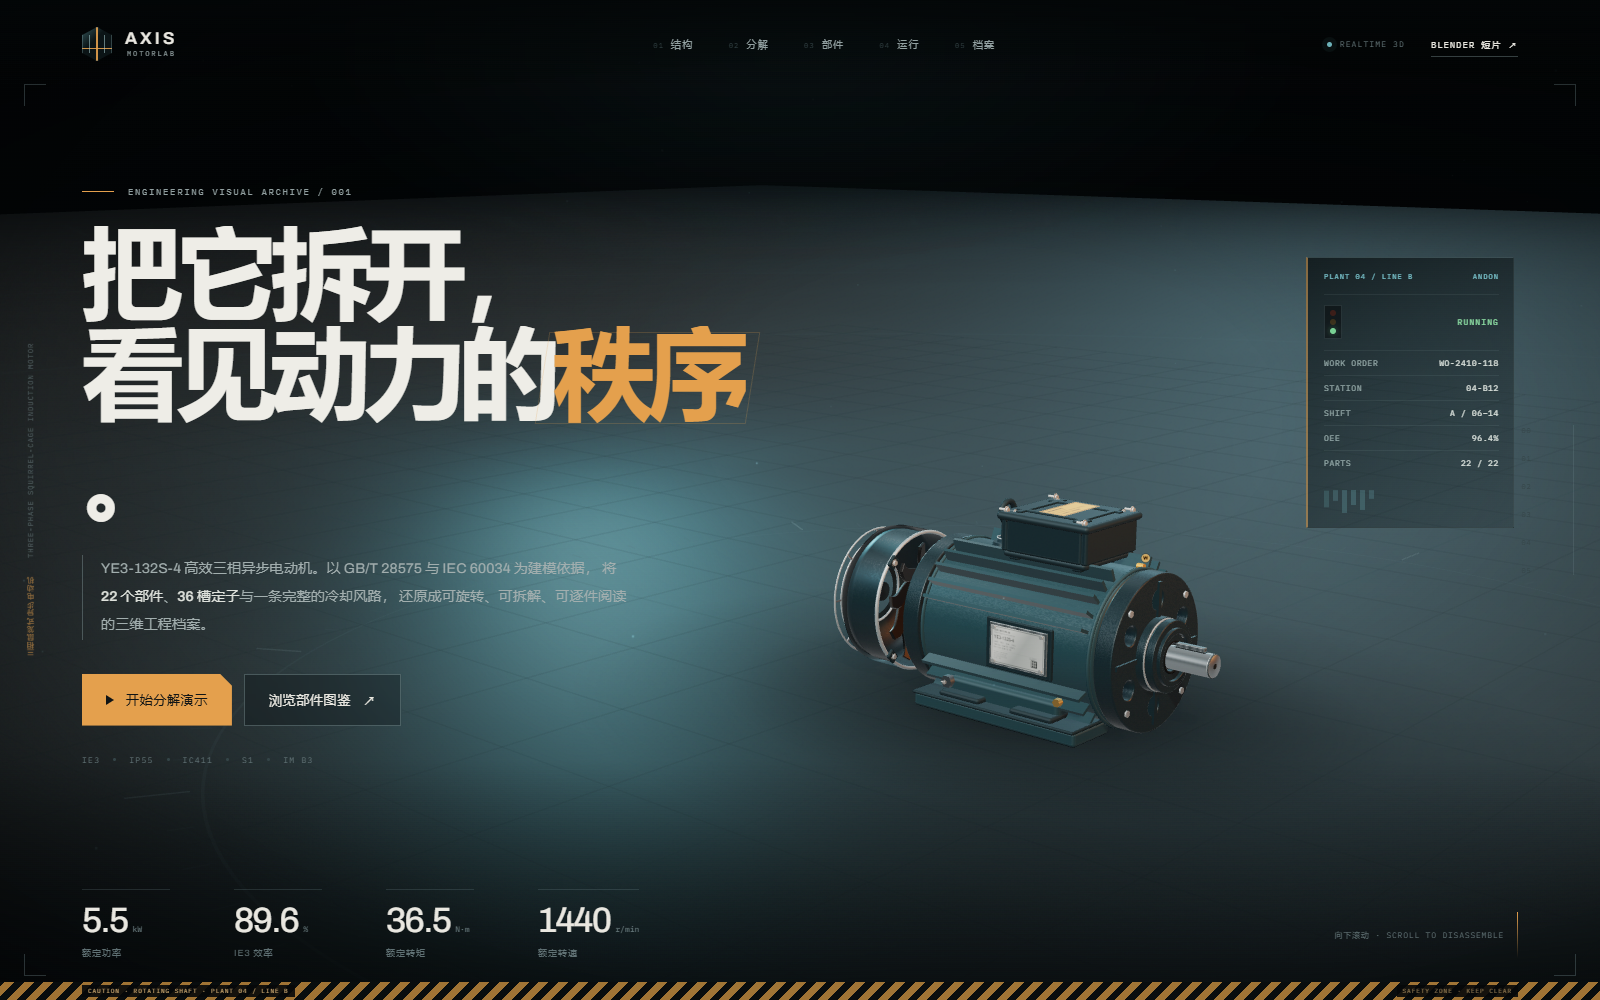
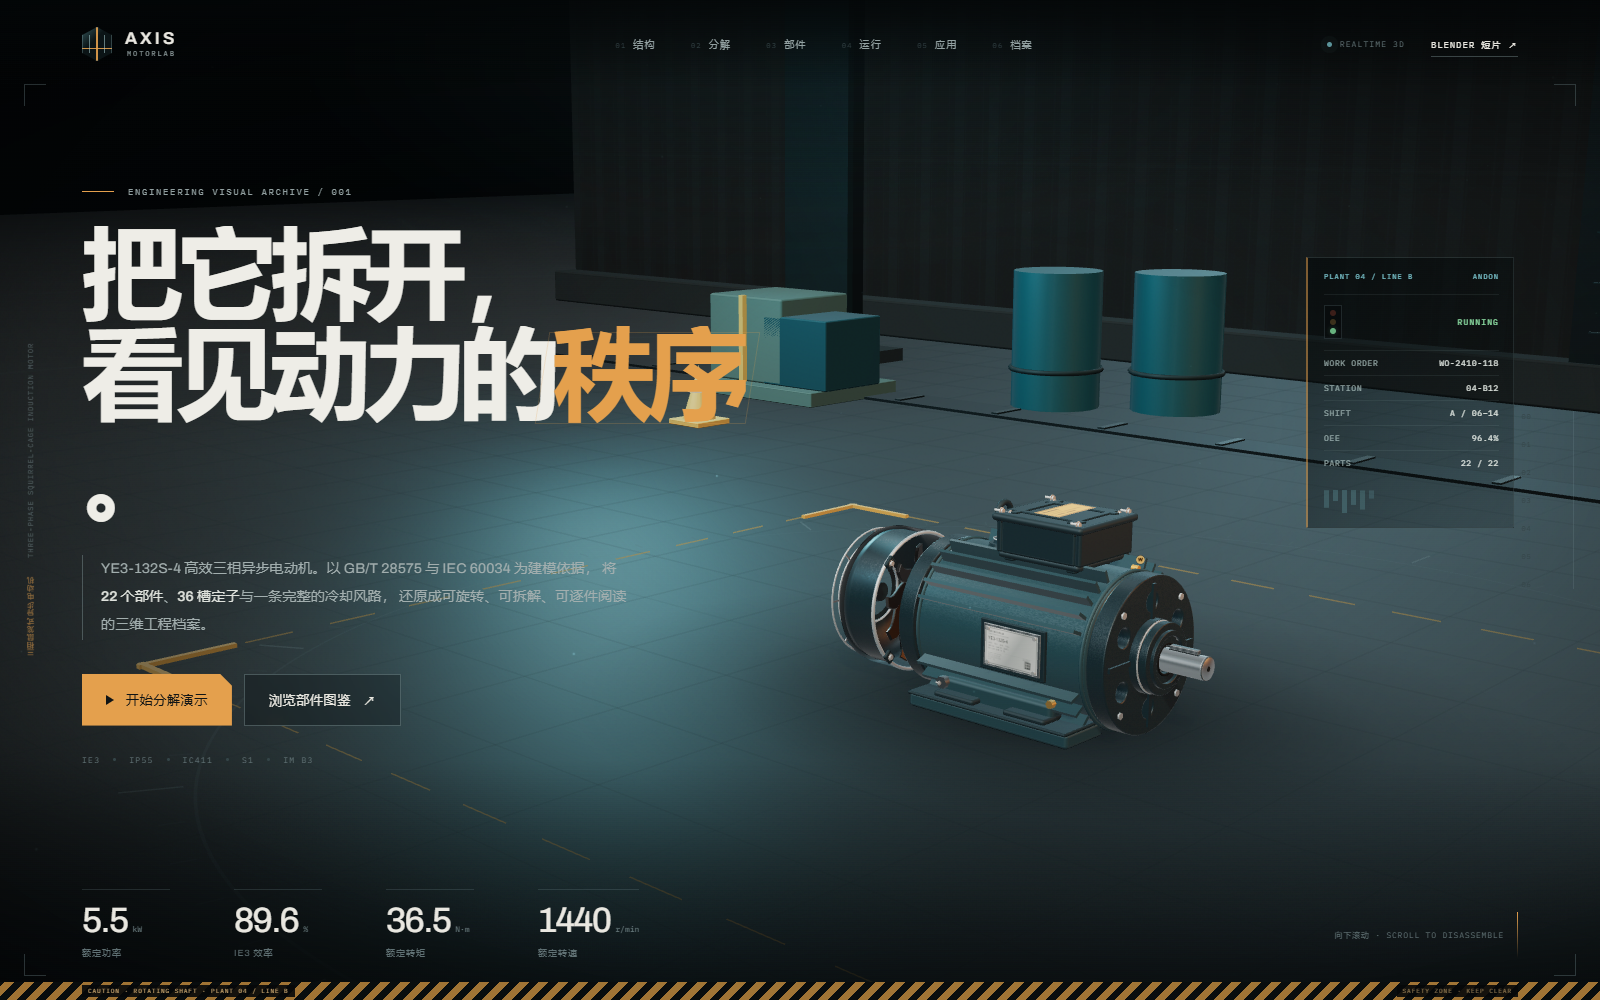
Add industrial factory hall environment to 3D stage

diff --git a/src/scene/factory.js b/src/scene/factory.js
@@ -1,0 +1,311 @@
+import * as THREE from 'three';
+import { makeCanvasTexture, PI2, roundedBox, shadowed } from '../model/utils.js';
+
+const steel = new THREE.MeshStandardMaterial({ color: 0x2a393c, metalness: 0.78, roughness: 0.42 });
+const darkSteel = new THREE.MeshStandardMaterial({ color: 0x0b1518, metalness: 0.52, roughness: 0.58 });
+const paint = new THREE.MeshStandardMaterial({ color: 0x183b42, metalness: 0.35, roughness: 0.55 });
+const safety = new THREE.MeshStandardMaterial({ color: 0xb9893f, metalness: 0.22, roughness: 0.55 });
+const concrete = new THREE.MeshStandardMaterial({ color: 0x10191b, metalness: 0.1, roughness: 0.88 });
+const crateMat = new THREE.MeshStandardMaterial({ color: 0x384a45, metalness: 0.12, roughness: 0.82 });
+const barrelMat = new THREE.MeshStandardMaterial({ color: 0x1d4c54, metalness: 0.4, roughness: 0.48 });
+const rubber = new THREE.MeshStandardMaterial({ color: 0x0a0e0f, metalness: 0.02, roughness: 0.9 });
+
+function add(parent, geometry, material, x = 0, y = 0, z = 0, rx = 0, ry = 0, rz = 0, cast = false) {
+  const mesh = new THREE.Mesh(geometry, material);
+  mesh.position.set(x, y, z);
+  mesh.rotation.set(rx, ry, rz);
+  mesh.castShadow = cast;
+  mesh.receiveShadow = false;
+  parent.add(mesh);
+  return mesh;
+}
+
+function wallTexture() {
+  const tex = makeCanvasTexture(512, 512, (ctx, w, h) => {
+    ctx.fillStyle = '#0b1417';
+    ctx.fillRect(0, 0, w, h);
+    for (let x = 0; x < w; x += 16) {
+      ctx.fillStyle = x % 32 === 0 ? 'rgba(80,108,111,0.16)' : 'rgba(8,15,17,0.5)';
+      ctx.fillRect(x, 0, 9, h);
+      ctx.fillStyle = 'rgba(155,186,183,0.055)';
+      ctx.fillRect(x + 10, 0, 1, h);
+    }
+    let seed = 807;
+    const rnd = () => {
+      seed = (seed * 16807) % 2147483647;
+      return (seed - 1) / 2147483646;
+    };
+    for (let i = 0; i < 180; i++) {
+      const x = rnd() * w;
+      const y = rnd() * h;
+      const r = 1 + rnd() * 20;
+      ctx.fillStyle = `rgba(${80 + rnd() * 30},${90 + rnd() * 35},${88 + rnd() * 30},${0.008 + rnd() * 0.025})`;
+      ctx.beginPath();
+      ctx.arc(x, y, r, 0, PI2);
+      ctx.fill();
+    }
+    ctx.strokeStyle = 'rgba(100,130,132,0.14)';
+    for (let y = 52; y < h; y += 112) {
+      ctx.beginPath();
+      ctx.moveTo(0, y);
+      ctx.lineTo(w, y);
+      ctx.stroke();
+    }
+  });
+  tex.wrapS = tex.wrapT = THREE.RepeatWrapping;
+  tex.repeat.set(4, 1);
+  return tex;
+}
+
+function letteringTexture(text, sub) {
+  return makeCanvasTexture(1024, 256, (ctx, w, h) => {
+    ctx.clearRect(0, 0, w, h);
+    ctx.fillStyle = 'rgba(5,9,10,0.9)';
+    ctx.fillRect(0, 0, w, h);
+    ctx.strokeStyle = 'rgba(203,145,64,0.82)';
+    ctx.lineWidth = 7;
+    ctx.strokeRect(10, 10, w - 20, h - 20);
+    ctx.fillStyle = '#d7a65e';
+    ctx.font = 'bold 76px Arial';
+    ctx.fillText(text, 36, 112);
+    ctx.fillStyle = 'rgba(185,204,198,0.7)';
+    ctx.font = '28px Arial';
+    ctx.fillText(sub, 38, 176);
+    ctx.fillStyle = 'rgba(203,145,64,0.5)';
+    ctx.fillRect(38, 200, 280, 6);
+  });
+}
+
+function floorText(text, sub) {
+  return makeCanvasTexture(1024, 256, (ctx, w, h) => {
+    ctx.clearRect(0, 0, w, h);
+    ctx.fillStyle = 'rgba(203,145,64,0.82)';
+    ctx.font = 'bold 70px Arial';
+    ctx.fillText(text, 20, 108);
+    ctx.fillStyle = 'rgba(203,145,64,0.46)';
+    ctx.font = '28px Arial';
+    ctx.fillText(sub, 24, 168);
+    ctx.fillRect(24, 198, 720, 6);
+  });
+}
+
+function wallSign(text, sub) {
+  return new THREE.Mesh(
+    new THREE.PlaneGeometry(2.1, 0.52),
+    new THREE.MeshBasicMaterial({
+      map: letteringTexture(text, sub),
+      transparent: true,
+      toneMapped: false,
+      depthWrite: false,
+    }),
+  );
+}
+
+function cone(x, z, y = 0) {
+  const g = new THREE.Group();
+  const base = add(g, roundedBox(0.14, 0.018, 0.14, 0.004, 2), safety, 0, 0.009, 0);
+  base.castShadow = false;
+  add(g, new THREE.ConeGeometry(0.056, 0.18, 20), safety, 0, 0.1, 0, 0, 0, 0, false);
+  add(g, new THREE.ConeGeometry(0.036, 0.05, 20), new THREE.MeshBasicMaterial({ color: 0xc9bda1 }), 0, 0.13, 0, 0, 0, 0, false);
+  g.position.set(x, y, z);
+  return g;
+}
+
+function pallet(x, z) {
+  const g = new THREE.Group();
+  add(g, roundedBox(0.58, 0.05, 0.44, 0.004, 2), crateMat, 0, 0.025, 0);
+  for (const dx of [-0.2, 0, 0.2]) for (const dz of [-0.15, 0.15]) {
+    add(g, new THREE.BoxGeometry(0.08, 0.045, 0.08), darkSteel, dx, 0.006, dz);
+  }
+  add(g, roundedBox(0.36, 0.3, 0.34, 0.008, 2), crateMat, -0.08, 0.2, 0);
+  add(g, roundedBox(0.3, 0.24, 0.28, 0.006, 2), paint, 0.16, 0.17, 0.03);
+  add(g, new THREE.BoxGeometry(0.02, 0.31, 0.02), safety, -0.08, 0.2, 0.18);
+  g.position.set(x, 0, z);
+  return g;
+}
+
+function cabinet(x, z) {
+  const g = new THREE.Group();
+  add(g, roundedBox(0.55, 1.2, 0.38, 0.008, 2), darkSteel, 0, 0.6, 0);
+  add(g, roundedBox(0.48, 0.96, 0.008, 0.004, 2), paint, 0, 0.66, 0.195);
+  add(g, new THREE.BoxGeometry(0.015, 0.23, 0.012), steel, 0.18, 0.67, 0.203);
+  for (let i = 0; i < 3; i++) {
+    add(g, new THREE.BoxGeometry(0.055, 0.012, 0.008), i === 0 ? new THREE.MeshBasicMaterial({ color: 0x7fe3a0 }) : safety, -0.14 + i * 0.12, 1.08, 0.2, 0, 0, 0, false);
+  }
+  add(g, new THREE.BoxGeometry(0.04, 0.7, 0.04), steel, -0.35, 0.4, 0.15);
+  g.position.set(x, 0, z);
+  return g;
+}
+
+function forklift(x, z, rotation = 0) {
+  const g = new THREE.Group();
+  add(g, roundedBox(0.55, 0.33, 0.36, 0.025, 2), safety, 0, 0.26, 0);
+  add(g, roundedBox(0.25, 0.24, 0.32, 0.02, 2), paint, -0.17, 0.39, 0);
+  add(g, new THREE.BoxGeometry(0.045, 1.0, 0.055), steel, 0.28, 0.52, 0);
+  add(g, new THREE.BoxGeometry(0.04, 0.04, 0.38), steel, 0.32, 0.73, 0);
+  add(g, new THREE.BoxGeometry(0.04, 0.04, 0.38), steel, 0.32, 0.1, 0);
+  for (const dz of [-0.13, 0.13]) {
+    add(g, new THREE.CylinderGeometry(0.07, 0.07, 0.045, 16), rubber, -0.17, 0.08, dz, Math.PI / 2, 0, 0);
+    add(g, new THREE.CylinderGeometry(0.07, 0.07, 0.045, 16), rubber, 0.2, 0.08, dz, Math.PI / 2, 0, 0);
+  }
+  add(g, new THREE.BoxGeometry(0.34, 0.04, 0.055), darkSteel, 0.5, 0.18, 0);
+  g.position.set(x, 0, z);
+  g.rotation.y = rotation;
+  return g;
+}
+
+function pipeRun(parent, y, z, length, colorMat) {
+  add(parent, new THREE.CylinderGeometry(0.042, 0.042, length, 18), colorMat, 0, y, z, 0, 0, Math.PI / 2);
+  for (let x = -length / 2 + 0.6; x < length / 2; x += 1.2) {
+    add(parent, new THREE.CylinderGeometry(0.055, 0.055, 0.025, 18), steel, x, y, z, 0, 0, Math.PI / 2);
+  }
+}
+
+export function createFactoryEnvironment() {
+  const root = new THREE.Group();
+  root.name = 'factory-environment';
+
+  // Back wall and a low concrete plinth.
+  const wall = add(root, new THREE.PlaneGeometry(12, 3.2), new THREE.MeshStandardMaterial({
+    map: wallTexture(),
+    color: 0x7d8e8f,
+    roughness: 0.82,
+    metalness: 0.25,
+  }), 0, 1.6, -3.9);
+  wall.receiveShadow = false;
+  add(root, roundedBox(12, 0.16, 0.14, 0.01, 2), concrete, 0, 0.08, -3.82);
+
+  // Roll-up door and signage.
+  add(root, new THREE.BoxGeometry(1.42, 2.15, 0.035), darkSteel, 0.1, 1.08, -3.79);
+  for (let i = 0; i < 12; i++) {
+    add(root, new THREE.BoxGeometry(1.3, 0.005, 0.008), steel, 0.1, 0.1 + i * 0.165, -3.765);
+  }
+  add(root, new THREE.BoxGeometry(1.5, 0.045, 0.06), safety, 0.1, 2.18, -3.78);
+
+  // Windows, wall pipes and cable tray.
+  for (let i = 0; i < 3; i++) {
+    add(root, new THREE.PlaneGeometry(0.9, 0.48), new THREE.MeshBasicMaterial({
+      color: 0x1d4652,
+      transparent: true,
+      opacity: 0.3,
+      toneMapped: false,
+    }), -1.5 + i * 1.5, 2.35, -3.885);
+  }
+  pipeRun(root, 2.0, -3.75, 8.4, new THREE.MeshStandardMaterial({ color: 0x6e4b32, metalness: 0.5, roughness: 0.4 }));
+  pipeRun(root, 2.15, -3.7, 8.4, steel);
+  add(root, new THREE.BoxGeometry(8, 0.1, 0.26), darkSteel, 0, 2.62, -3.74);
+  for (let x = -3.6; x <= 3.6; x += 1.2) {
+    add(root, new THREE.BoxGeometry(0.04, 0.14, 0.3), steel, x, 2.54, -3.74);
+  }
+
+  // Structural columns and roof beam.
+  for (const x of [-3.25, 3.25]) {
+    add(root, new THREE.BoxGeometry(0.16, 3.0, 0.16), darkSteel, x, 1.5, -3.0);
+    add(root, new THREE.BoxGeometry(0.42, 0.05, 0.36), concrete, x, 0.025, -3.0);
+    for (const side of [-1, 1]) {
+      add(root, new THREE.BoxGeometry(0.07, 2.9, 0.03), steel, x + side * 0.12, 1.5, -2.92);
+    }
+    add(root, new THREE.BoxGeometry(0.34, 2.6, 0.025), steel, x, 1.5, -2.9);
+    add(root, new THREE.SphereGeometry(0.025, 12, 8), new THREE.MeshBasicMaterial({ color: 0xe0a04a }), x, 2.22, -2.83);
+  }
+  add(root, new THREE.BoxGeometry(6.9, 0.18, 0.22), darkSteel, 0, 2.86, -3.0);
+  add(root, new THREE.BoxGeometry(5.8, 0.1, 0.14), steel, 0, 2.74, -3.0);
+
+  // Overhead crane rail + trolley + hook.
+  add(root, new THREE.BoxGeometry(6.4, 0.16, 0.2), safety, 0, 2.54, -2.1);
+  const trolley = new THREE.Group();
+  add(trolley, new THREE.BoxGeometry(0.3, 0.16, 0.22), darkSteel, 0, 0, 0);
+  add(trolley, new THREE.CylinderGeometry(0.005, 0.005, 1.05, 8), steel, 0, -0.54, 0);
+  add(trolley, new THREE.TorusGeometry(0.06, 0.009, 6, 20), safety, 0, -1.08, 0);
+  trolley.position.set(0.55, 2.54, -2.1);
+  root.add(trolley);
+
+  // Ceiling light bars.
+  for (const x of [-1.6, 0, 1.6]) {
+    add(root, new THREE.BoxGeometry(0.65, 0.035, 0.12), new THREE.MeshBasicMaterial({ color: 0xf1e6cb, toneMapped: false }), x, 2.72, -1.35);
+    add(root, new THREE.CylinderGeometry(0.006, 0.006, 0.32, 6), steel, x - 0.22, 2.87, -1.35);
+    add(root, new THREE.CylinderGeometry(0.006, 0.006, 0.32, 6), steel, x + 0.22, 2.87, -1.35);
+  }
+
+  // Floor safety zone: rectangular dashed perimeter, corner brackets and bay stencil.
+  const lineMat = new THREE.LineDashedMaterial({
+    color: 0xc39149,
+    transparent: true,
+    opacity: 0.55,
+    dashSize: 0.1,
+    gapSize: 0.08,
+    depthWrite: false,
+  });
+  const zx = 1.28;
+  const zz = 0.94;
+  const corners = [
+    [-zx, -zz], [zx, -zz], [zx, zz], [-zx, zz], [-zx, -zz],
+  ];
+  const points = [];
+  for (let i = 0; i < corners.length - 1; i++) {
+    points.push(new THREE.Vector3(corners[i][0], 0.006, corners[i][1]));
+    points.push(new THREE.Vector3(corners[i + 1][0], 0.006, corners[i + 1][1]));
+  }
+  const lineGeo = new THREE.BufferGeometry().setFromPoints(points);
+  const line = new THREE.LineSegments(lineGeo, lineMat);
+  line.computeLineDistances();
+  root.add(line);
+  for (const [x, z] of corners.slice(0, 4)) {
+    const sx = x < 0 ? 1 : -1;
+    const sz = z < 0 ? 1 : -1;
+    add(root, new THREE.BoxGeometry(0.19, 0.008, 0.012), safety, x + sx * 0.085, 0.006, z);
+    add(root, new THREE.BoxGeometry(0.012, 0.008, 0.19), safety, x, 0.006, z + sz * 0.085);
+  }
+  const floorSign = new THREE.Mesh(
+    new THREE.PlaneGeometry(0.56, 0.14),
+    new THREE.MeshBasicMaterial({ map: floorText('BAY 12', 'ASSEMBLY / SAFETY ZONE'), transparent: true, depthWrite: false, toneMapped: false }),
+  );
+  floorSign.rotation.x = -Math.PI / 2;
+  floorSign.rotation.z = -0.08;
+  floorSign.position.set(-0.62, 0.007, -0.68);
+  root.add(floorSign);
+
+  // Distant production equipment.
+  root.add(cabinet(2.75, -2.35));
+  root.add(pallet(-2.75, -2.25));
+  root.add(forklift(3.35, -2.9, -0.28));
+  for (const [x, z] of [[-1.9, -2.65], [-1.55, -2.85]]) {
+    add(root, new THREE.CylinderGeometry(0.15, 0.15, 0.46, 20), barrelMat, x, 0.23, z);
+    add(root, new THREE.TorusGeometry(0.153, 0.009, 6, 24), steel, x, 0.13, z, Math.PI / 2, 0, 0);
+  }
+  root.add(cone(-2.5, -1.55));
+  root.add(cone(1.95, -1.7));
+  root.add(cone(2.35, -1.55));
+
+  // Drain channel and grates near the wall.
+  add(root, new THREE.BoxGeometry(8.5, 0.012, 0.16), darkSteel, 0, 0.003, -2.38);
+  for (let x = -4; x <= 4; x += 0.42) {
+    add(root, new THREE.BoxGeometry(0.025, 0.006, 0.13), steel, x, 0.011, -2.38);
+  }
+
+  const beacon = add(root, new THREE.SphereGeometry(0.035, 14, 10), new THREE.MeshBasicMaterial({ color: 0xe0a04a, toneMapped: false }), 3.25, 2.27, -2.8);
+  const beaconGlow = add(root, new THREE.SphereGeometry(0.08, 16, 12), new THREE.MeshBasicMaterial({
+    color: 0xe0a04a,
+    transparent: true,
+    opacity: 0.12,
+    depthWrite: false,
+    blending: THREE.AdditiveBlending,
+    toneMapped: false,
+  }), 3.25, 2.27, -2.8);
+  const hook = trolley;
+  const hookMat = hook.children.find((c) => c.geometry?.type === 'TorusGeometry');
+  root.userData = { trolley, beacon, beaconGlow, hookMat };
+
+  return {
+    root,
+    update(dt, elapsed) {
+      const sway = Math.sin(elapsed * 0.55) * 0.018;
+      trolley.position.x = 0.55 + Math.sin(elapsed * 0.18) * 0.85;
+      trolley.rotation.z = sway;
+      const glow = 0.08 + (Math.sin(elapsed * 2.1) + 1) * 0.08;
+      beaconGlow.material.opacity = glow;
+      beaconGlow.scale.setScalar(1 + Math.sin(elapsed * 2.1) * 0.18);
+      beacon.material.color.setHex(0xe0a04a);
+    },
+  };
+}

diff --git a/src/scene/stage.js b/src/scene/stage.js
@@ -4,6 +4,7 @@ import { RoomEnvironment } from 'three/addons/environments/RoomEnvironment.js';
 import { clamp, lerp, makeCanvasTexture, PI2 } from '../model/utils.js';
 import { Motor } from '../model/motor.js';
 import { createApplications } from '../model/applications.js';
+import { createFactoryEnvironment } from './factory.js';
 
 const GHOST_IDS = new Set([
   'stator-frame',
@@ -122,6 +123,8 @@ export class Stage {
     this.setupScene();
     this.setupLights();
     this.setupFloor();
+    this.factory = createFactoryEnvironment();
+    this.scene.add(this.factory.root);
     this.setupCamera();
     this.setupEffects();
     this.bindEvents();
@@ -630,6 +633,7 @@ export class Stage {
     this.autoRotateWanted = !!preset.autoRotate;
     this.mode = name;
     if (this.applications) this.applications.root.visible = name === 'applications';
+    if (this.factory) this.factory.root.visible = !['explode', 'parts', 'data'].includes(name);
     if (immediate) {
       this.camera.position.set(...preset.pos);
       this.controls.target.set(...preset.target);
@@ -758,6 +762,9 @@ export class Stage {
 
     if (this.applications?.root.visible) {
       this.applications.update(dt, elapsed);
+    }
+    if (this.factory?.root.visible) {
+      this.factory.update(dt, elapsed);
     }
 
     if (this.cameraTween) {

diff --git a/README.md b/README.md
@@ -73,6 +73,7 @@ npm run preview   # http://127.0.0.1:5181/
 - **地面间隙修正：** 前后端盖外径从 138 mm 收至 127 mm，底部散热筋让出底脚区域；所有部件最低点不低于地面，修复前端盖低于地面的视觉穿插。
 - **工厂 UI：** 首屏增加 PLANT 04 / LINE B 的工单、站位、班次、OEE、ANDON 状态灯和底部安全警示带；档案区增加产线记录表、维护计划和资产条码。
 - **应用场景：** 新增 `05 / APPLICATIONS` 章节。程序化建模离心泵、皮带输送机和轴流风机三组周边设备；叶轮、风机转子、输送带、包装箱持续动画，并与主电机置于同一舞台。
+- **工厂环境：** 主舞台加入卷帘门、钢结构立柱、屋顶梁、行车、工艺管线、桥架、配电柜、托盘、油桶、叉车、安全锥和地面安全作业区；环境在总览、结构、运行、应用章节显示，分解/部件/档案章节自动隐藏以保持结构阅读清晰。
 - **动画：** 每个部件带独立的 `home / explode / delay / duration` 参数，按装配逻辑错峰分离；相机采用阻尼/缓动预设；滚动进度与滑杆双向绑定。
 - **渲染：** ACES 色调映射、PMREM 室内环境反射、方向光阴影、程序化混凝土舞台、加性叠加的技术标注/风路/旋转磁场、CSS 网格与扫描噪点氛围。
 - **性能：** 同材质子网格合并 + 实例化，桌面约 160 次 draw call / 42 万三角面；移动端关闭 3D 轨道控制以保留页面滚动手势。
@@ -97,6 +98,7 @@ npm run preview   # http://127.0.0.1:5181/
 │  │  ├─ materials.js         # 工业材质库与 X-RAY 幽灵材质
 │  │  └─ utils.js             # 几何原语、螺栓实例、铭牌纹理
 │  ├─ scene/stage.js          # 渲染器、相机预设、灯、材质、特效、拾取
+│  ├─ scene/factory.js        # 工厂环境：墙体、钢结构、行车、管线与地面标线
 │  └─ ui/
 │     ├─ labels.js            # 部件引线标注、热点排布
 │     ├─ parts.js             # 部件档案交互
@@ -127,6 +129,7 @@ npm run preview   # http://127.0.0.1:5181/
 - Playwright 交互回归 18/18 通过：加载、自动分解、滑块、标注开关、标注跳转部件、部件高亮、聚焦、运行/停止、X-RAY、曲线渲染、无水平溢出、无控制台错误。
 - 3D 地面间隙检查：前端盖/后端盖最低点 `+0.0028 m`，定子机座底脚 `0.0000 m`，无部件穿地。
 - 应用章节检查：桌面 1600 与移动 390 下三个场景模型正常显示、持续动画，无控制台错误、无横向溢出。
+- 工厂环境检查：墙体、设备、地面标线正常；分解/部件章节自动隐藏环境，不遮挡结构。
 - 已检查 `1600×960`、`1366×768`、`390×844` 视口和 `prefers-reduced-motion` 环境。
 - `/blender/` 页面视频可播放（readyState 4 / 7.5 s），工程包与静帧均可下载。
 - Cloudflare Pages 生产部署已验证 200：首页、Blender 页、MP4、ZIP、sitemap、robots。
